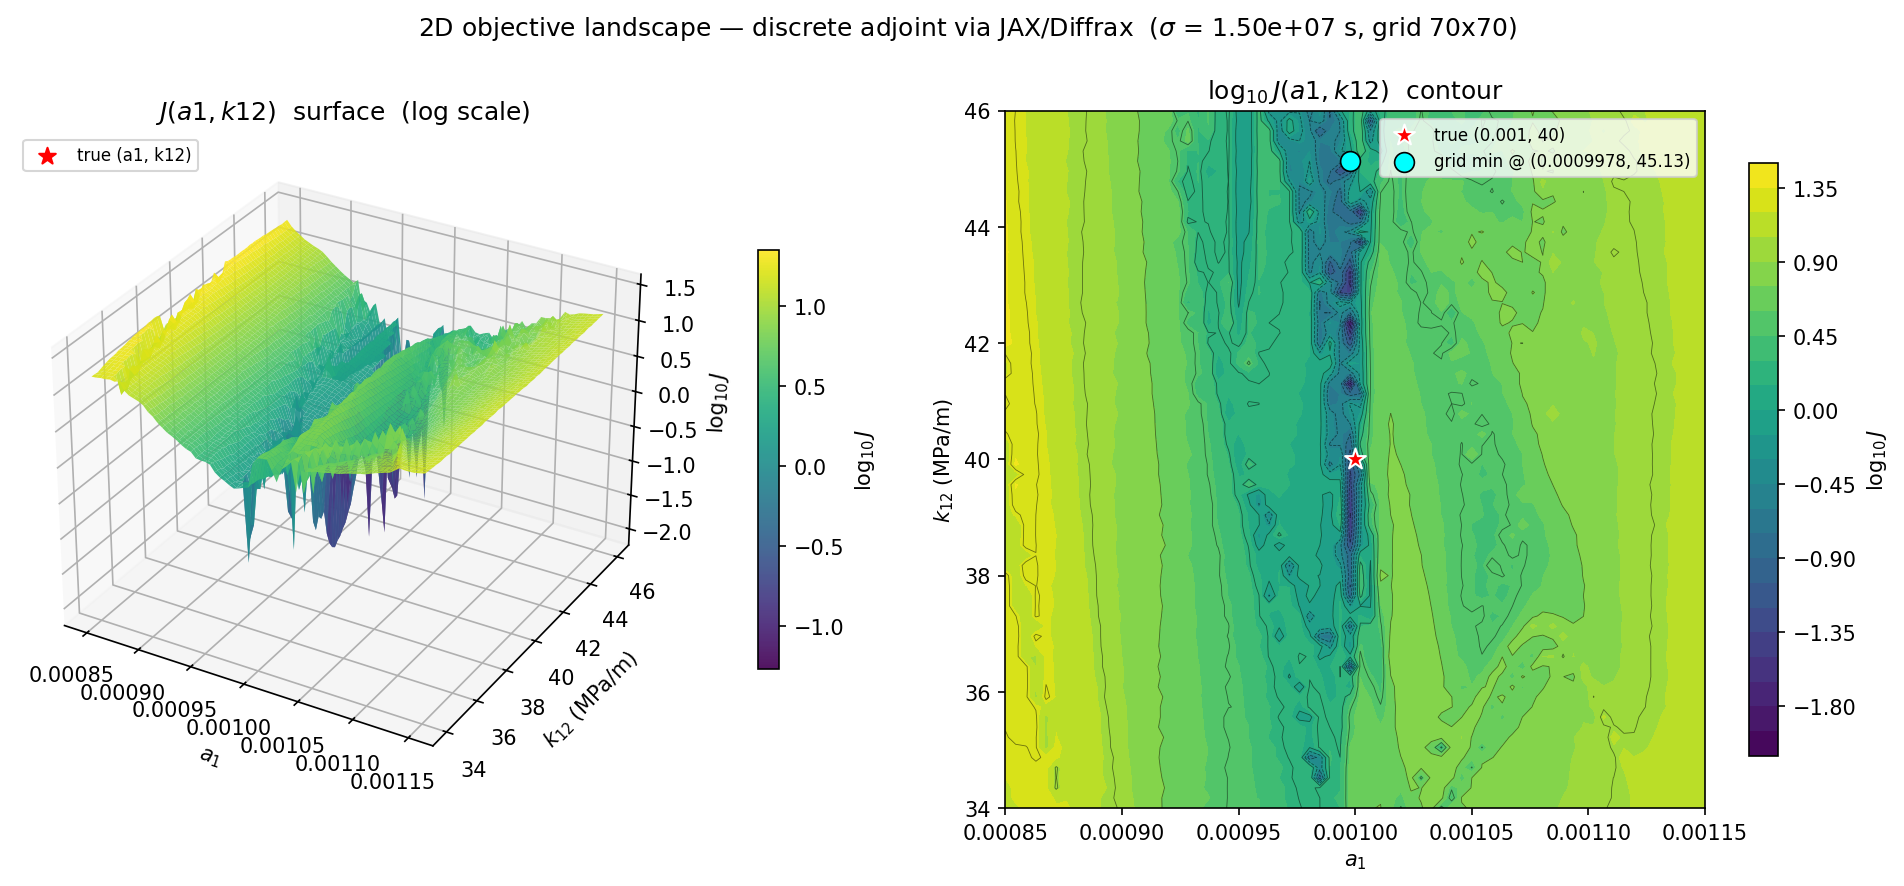
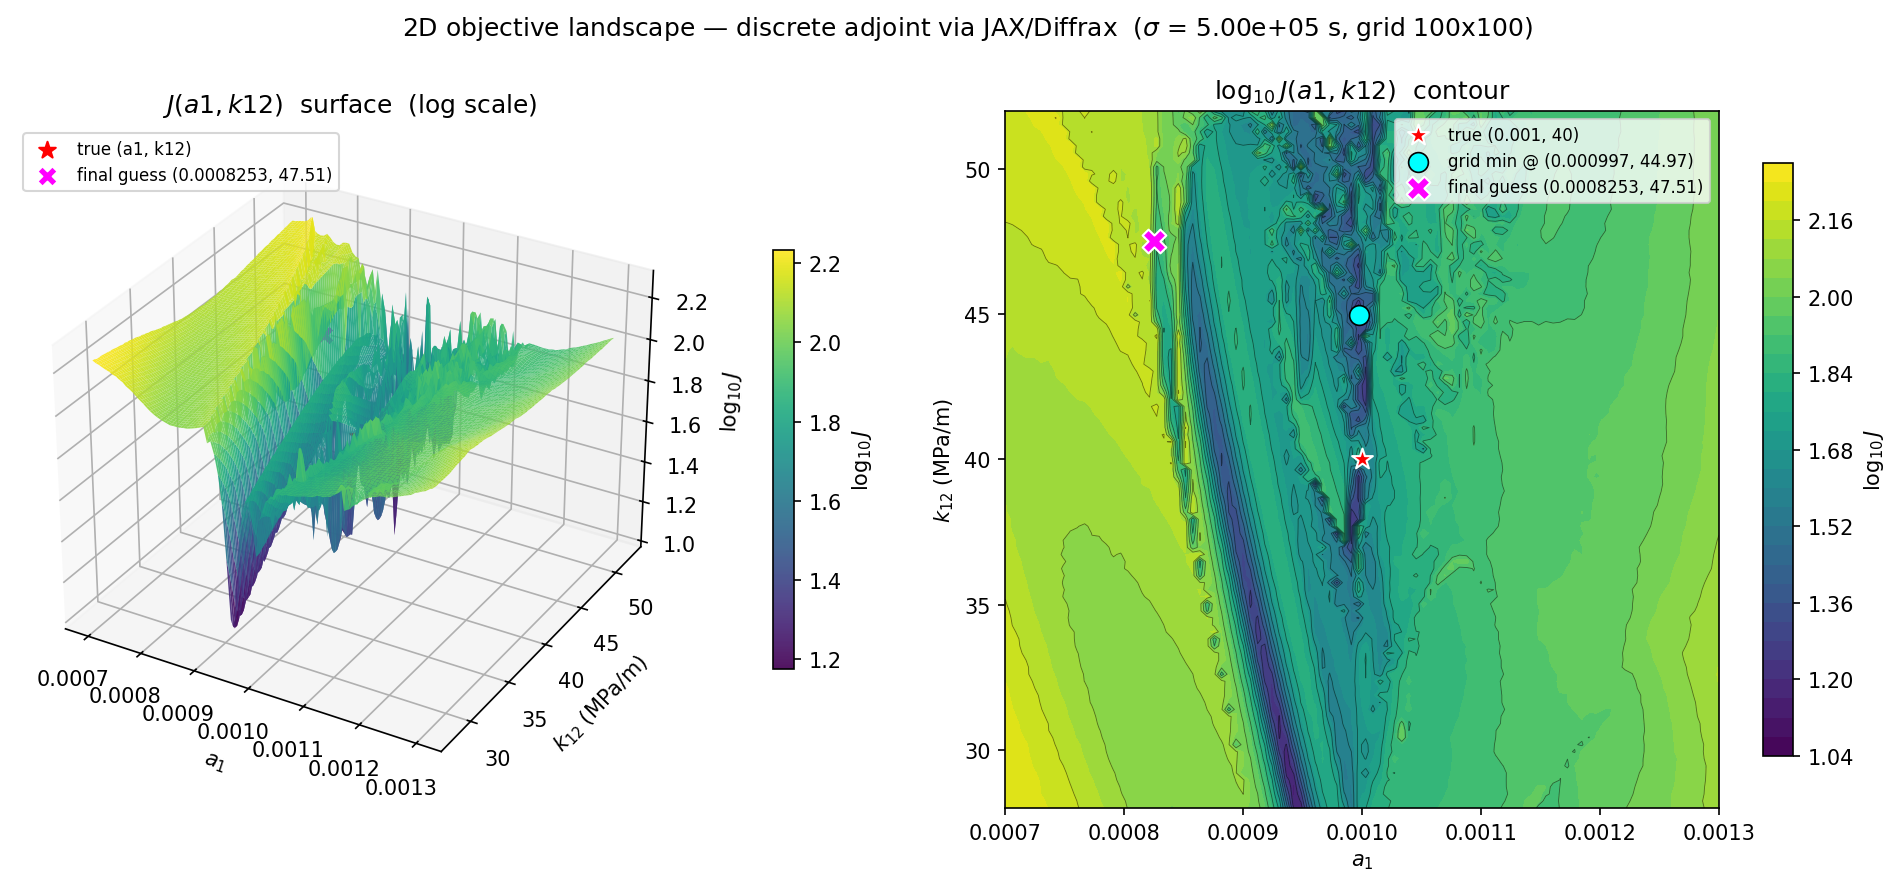
Changed lanscape cell to be able to see where the optimization ended up landing.

diff --git a/adjoint_tests.py b/adjoint_tests.py
@@ -936,7 +936,8 @@ def run_J_landscape_2d_jax(M, T,
                            chunk_size=None,
                            n_save=1000,
                            view_init=(30, -60),
-                           save_dir='Figures'):
+                           save_dir='Figures',
+                           p_final=None):
     """3D surface scan of log10(J) over two parameters, batched-parallel via
     `jax.vmap` through the Diffrax discrete-adjoint stack.
 
@@ -978,6 +979,10 @@ def run_J_landscape_2d_jax(M, T,
         Matplotlib 3D viewing angle for the surface panel.
     save_dir : str or None
         Output directory for the PNG. None disables saving.
+    p_final : dict or array-like, optional
+        Final-guess parameter values to overlay on both plots. Either a dict
+        keyed by parameter name (only `params[0]` and `params[1]` are read) or
+        a length-4 array in canonical (`a1`, `a2`, `k0`, `k12`) order.
 
     Returns
     -------
@@ -999,8 +1004,8 @@ def run_J_landscape_2d_jax(M, T,
 
     def _default_range(name):
         if name in ('a1', 'a2'):
-            return (M[name] * 0.85, M[name] * 1.15)
-        return (0.85 * M[name], 1.15 * M[name])
+            return (M[name] * 0.7, M[name] * 1.3)
+        return (0.7 * M[name], 1.3 * M[name])
 
     p1_lo, p1_hi = p1_range if p1_range is not None else _default_range(p1_name)
     p2_lo, p2_hi = p2_range if p2_range is not None else _default_range(p2_name)
@@ -1093,6 +1098,20 @@ def run_J_landscape_2d_jax(M, T,
                'k0': r'$k_0$ (MPa/m)', 'k12': r'$k_{12}$ (MPa/m)'}
     p1_true, p2_true = M[p1_name], M[p2_name]
 
+    # Resolve p_final into (p1_fin, p2_fin) if provided.
+    p1_fin = p2_fin = None
+    if p_final is not None:
+        if isinstance(p_final, dict):
+            p1_fin = p_final.get(p1_name)
+            p2_fin = p_final.get(p2_name)
+        else:
+            arr = np.asarray(p_final, dtype=float).ravel()
+            if arr.size != 4:
+                raise ValueError("p_final array must have length 4 in "
+                                 "(a1, a2, k0, k12) order")
+            p1_fin = float(arr[idx_p1])
+            p2_fin = float(arr[idx_p2])
+
     fig = plt.figure(figsize=(13, 6))
     ax_s = fig.add_subplot(1, 2, 1, projection='3d')
     surf = ax_s.plot_surface(P1, P2, logJ_grid,
@@ -1104,6 +1123,15 @@ def run_J_landscape_2d_jax(M, T,
         ax_s.scatter([p1_true], [p2_true], [float(logJ_grid[i1_t, i2_t])],
                      color='red', s=70, marker='*',
                      label=f'true ({p1_name}, {p2_name})', zorder=10)
+    if p1_fin is not None and p2_fin is not None:
+        i1_f = int(np.argmin(np.abs(p1_vals - p1_fin)))
+        i2_f = int(np.argmin(np.abs(p2_vals - p2_fin)))
+        if np.isfinite(logJ_grid[i1_f, i2_f]):
+            ax_s.scatter([p1_fin], [p2_fin], [float(logJ_grid[i1_f, i2_f])],
+                         color='magenta', s=90, marker='X',
+                         edgecolor='white', linewidth=0.8,
+                         label=f'final guess ({p1_fin:.4g}, {p2_fin:.4g})',
+                         zorder=11)
     ax_s.set_xlabel(_xlabel[p1_name])
     ax_s.set_ylabel(_xlabel[p2_name])
     ax_s.set_zlabel(r'$\log_{10} J$')
@@ -1127,6 +1155,12 @@ def run_J_landscape_2d_jax(M, T,
                      label=f'grid min @ ({p1_vals[imin[0]]:.4g}, '
                            f'{p2_vals[imin[1]]:.4g})',
                      zorder=11)
+    if p1_fin is not None and p2_fin is not None:
+        ax_c.scatter([p1_fin], [p2_fin],
+                     color='magenta', s=130, marker='X',
+                     edgecolor='white', linewidth=1.0,
+                     label=f'final guess ({p1_fin:.4g}, {p2_fin:.4g})',
+                     zorder=12)
     ax_c.set_xlabel(_xlabel[p1_name])
     ax_c.set_ylabel(_xlabel[p2_name])
     ax_c.set_title(f'$\\log_{{10}} J({p1_name}, {p2_name})$  contour')
@@ -1153,6 +1187,13 @@ def run_J_landscape_2d_jax(M, T,
               f"{p2_name}={p2_vals[imin[1]]:.5g})")
         print(f"  J at true grid pt = {J_grid[i1_t, i2_t]:.3e}")
         print(f"  J at grid min     = {J_grid[imin]:.3e}")
+    if p1_fin is not None and p2_fin is not None:
+        i1_f = int(np.argmin(np.abs(p1_vals - p1_fin)))
+        i2_f = int(np.argmin(np.abs(p2_vals - p2_fin)))
+        print(f"Final guess:    ({p1_name}={p1_fin:.5g}, "
+              f"{p2_name}={p2_fin:.5g})")
+        if np.isfinite(J_grid[i1_f, i2_f]):
+            print(f"  J at final-guess grid pt = {J_grid[i1_f, i2_f]:.3e}")
 
     return {
         'p1_name':   p1_name,